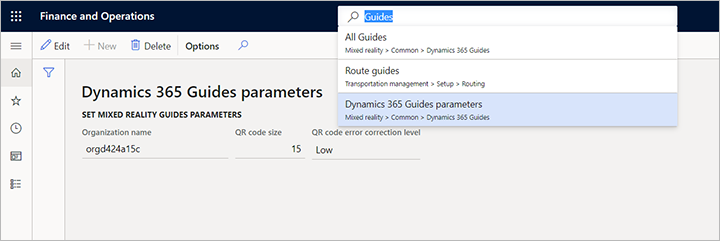
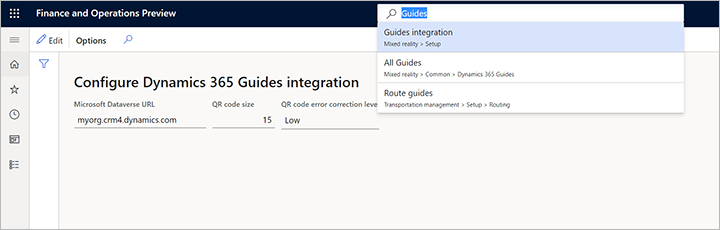
update for Dataverse

diff --git a/articles/supply-chain/production-control/instruction-guides-in-production-overview.md b/articles/supply-chain/production-control/instruction-guides-in-production-overview.md
@@ -128,10 +128,9 @@ To configure how Guides appear on the shop floor, go to **Mixed Reality \> Dynam
 
 Set the following fields:
 
-- **Common Data Service subdomain** - This field should already show a value. This field holds the subdomain for the Common Data Service environment where you create your Guides. The subdomain is the first part of the URL and is typically named after your organization. For example, if your Common Data Service URL is "contoso.crm4.dynamics.com", you should enter *contoso* here. This value is used to compose addresses for your guides and will be encoded into the QR codes.
+- **Microsoft Dataverse URL** - Specify the URL for the Microsoft Dataverse environment where you create your Guides. The format is "contoso.crm4.dynamics.com", where the first part of the URL is typically named after your organization (such as "contoso."), the second part is specific to the data region of your environment (such as "crm4."), and the last part is the domain (such as "dynamics.com"). One way to find the right URL is to go to [home.dynamics.com](https://home.dynamics.com/) and then open your Guides app. When Guides opens, you will see the URL in the address bar of your browser (only take the base URL, which should resemble the previous example). This value is used to compose addresses for your guides and will be encoded into the QR codes."
 - **QR code size** - Set the size of the rendered QR code. We recommend choosing a size that will fill most of your display screen, but not more. Typically, *15* is a good value.
 - **QR code error correction level** - Set the granularity of the QR code. Higher granularity can help increase the code's reliability, but your **QR code size** must be large enough to support the level of detail required by your selected correction level.
-
 
 > [!TIP]
 > - QR codes sizes that are too large for your display will take a bit longer to render and then be scaled down to fit your display. These do not provide a benefit.
